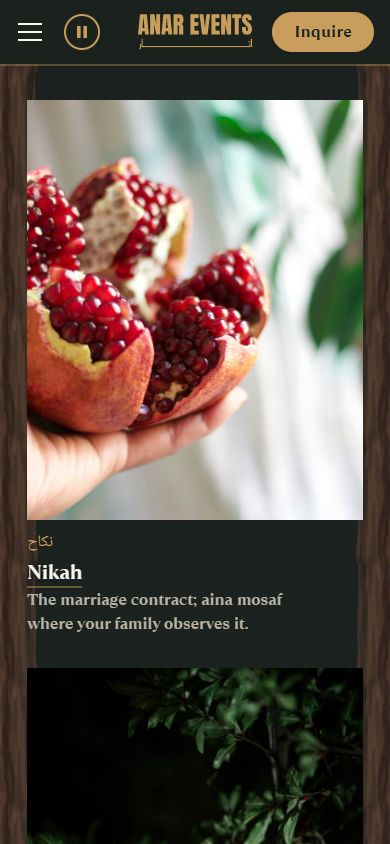
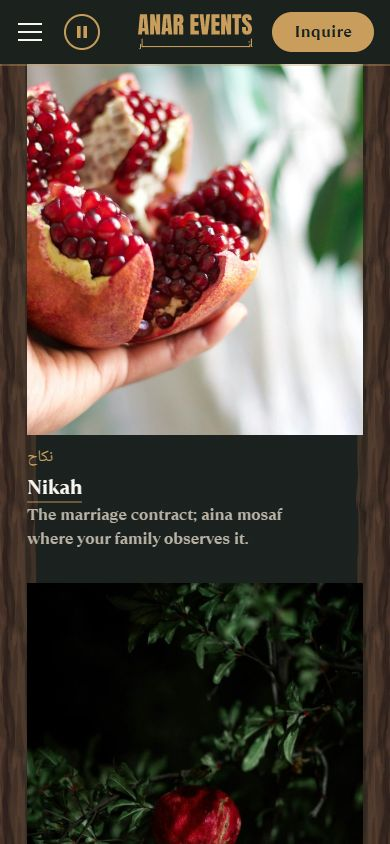
Canopy fix pass 8: static reduced motion, focus handling, phone spacing, halo, copy

diff --git a/weddings.html b/weddings.html
@@ -111,16 +111,16 @@
             <h2 id="t-sofreh">Sofreh Aghd</h2>
             <p class="fa fa--big" lang="fa" dir="rtl">سفرهٔ عقد</p>
           </div>
-          <!-- each ceremony leads with two sentences of coordination work (conditional: the rituals the couple chooses,
-               the participants the couple names); the ritual sequences and cue lists sit in a native <details> -->
+          <!-- each ceremony opens with two short sentences of coordination work (round 8: what we do, no ritual
+               inventory); the sequences, participants and cue lists sit in the native <details> under them -->
           <div class="stagger">
-            <p>The Persian marriage ceremony, at the sofreh. For the rituals you choose, we confirm the order and participants with you and your officiant: the aghed's three-time ask and the bride's baleh, the kaleh ghand rubbed over the couple during the reading, then the honey shared after it, each cued on the day with the participants you name.</p>
-            <p>We brief your sofreh designer and check the spread against the sofreh key (a one-page guide naming each item on the spread, in the languages listed in your proposal) before the elders are seated, and we cue the aghed, the family and the photographer at each moment.</p>
+            <p>For the Persian ceremony at the sofreh, we confirm the order and participants of the rituals you choose with you and your officiant, and cue each moment on the day.</p>
+            <p>We brief your sofreh designer and check the spread against the sofreh key before the elders are seated.</p>
             <details class="option__more tradition__more">
               <summary>Details we confirm with your family</summary>
               <p>The spread at the head of the room: mirror, candlesticks, honey, bread, coins, the pomegranate. The kaleh ghand: the sugar cones rubbed together over the cloth held above the couple's heads as the vows are read, by the participants the couple names (many families choose happily married women).</p>
               <p>The baleh: the aghed asks three times and the bride's answer comes after the third (the playful silence the first two times, timed with the aghed, the family and the photographer); the honey is shared from the fingertip straight after. Who holds the cloth, who rubs the cones and who speaks for the family: you name them, and we cue them.</p>
-              <p>The sofreh key is coordinated with your printer and set out for the guests, so the other family learns each item at a glance. If your family holds a bale-boroon or namzadi before the aghd, it goes in the programme and the elders are seated for it.</p>
+              <p>The sofreh key (a one-page guide naming each item on the spread, in the languages listed in your proposal) is coordinated with your printer and set out for the guests, so the other family learns each item at a glance. If your family holds a bale-boroon or namzadi before the aghd, it goes in the programme and the elders are seated for it.</p>
             </details>
           </div>
         </div>
@@ -143,8 +143,8 @@
             <p class="fa fa--big" lang="fa" dir="rtl">نکاح</p>
           </div>
           <div class="stagger">
-            <p>The Islamic marriage contract, read before witnesses and both families. For Pakistani families: the nikah, the rukhsati and the walima, each in its own time. For the rituals you choose, we confirm the order and participants with you and your officiant: the mehndi the night before and the rukhsati after the nikah or the reception, if your family keeps them.</p>
-            <p>We cue the officiant and the family, and keep the room quiet and steady. A one-line programme, coordinated with your printer, explains the ritual so every guest can follow.</p>
+            <p>For the Islamic marriage contract, read before witnesses and both families, we confirm the order and participants with you and your officiant.</p>
+            <p>We cue the officiant and the family, and a one-line programme, coordinated with your printer, lets every guest follow.</p>
           </div>
           <!-- Afghan weddings (#afghan, in the "Find your ceremony" row): how the family names its ceremonies, languages and
                participants; before the nikah details, so Afghan families meet their entry point first -->
@@ -154,6 +154,7 @@
           </div>
           <details class="option__more tradition__more reveal">
             <summary>Details we confirm with your family</summary>
+            <p>For Pakistani families: the nikah, the rukhsati and the walima, each in its own time. For the rituals you choose: the mehndi the night before and the rukhsati after the nikah or the reception, if your family keeps them. The room stays quiet and steady for the reading.</p>
             <p>If your family observes the aina mosaf (<span class="fa" lang="fa" dir="rtl">آینهمصحف</span>), as many Afghan families do, it has its own moment, at the nikah or at the reception under the shawl, as your family keeps it: the couple's first look in the mirror, the Quran open between them, the elders close. We cue the shawl, the mirror and the reading with your family, and nobody is hurried.</p>
             <p>The witnesses, the wali, and who signs where: confirmed with your officiant before the day, so the reading is not interrupted. The mahr as agreed by the couple and confirmed with their officiant.</p>
             <p>The family's part, who speaks, who sits where and who is cued for the send-off: as your family keeps it, named with you.</p>
@@ -178,13 +179,13 @@
             <p class="fa fa--big" lang="fa" dir="rtl">حنابندان · مهندی</p>
           </div>
           <div class="stagger">
-            <p>The henna night and the sangeet. For the rituals you choose, we confirm the order of the evening and the participants with you, then run it with the venue, the musicians and the henna artist.</p>
-            <p>The elders are seated before the first song and the bride's henna is dry before she is called; the nights before, if your family holds them, go in the same plan with their own timeline and staffing.</p>
+            <p>For the henna night and the sangeet, we confirm the order of the evening and the participants with you, then run it with the venue, the musicians and the henna artist.</p>
+            <p>The elders are seated before the first song, and the bride's henna is dry before she is called.</p>
             <details class="option__more tradition__more">
               <summary>Details we confirm with your family</summary>
               <p>The order of the evening as your family keeps it: the henna, the elders' blessing, the entrances, the dances each family has rehearsed, the hour the elders leave.</p>
               <p>The henna gathering: hana-bandan for Persian families, khina for Afghan families, mehndi for South Asian families. Henna on the bride's hands, with the elders' blessing, by the participants the couple names.</p>
-              <p>The sangeet: both families singing and dancing. In the nights before, if your family holds them: the mayun, dholki or jaggo, or the gaye holud for Bengali families.</p>
+              <p>The sangeet: both families singing and dancing. In the nights before, if your family holds them: the mayun, dholki or jaggo, or the gaye holud for Bengali families, each in the same plan with its own timeline and staffing.</p>
             </details>
           </div>
         </div>
@@ -207,10 +208,11 @@
             <h2 id="t-hindu">Haldi &amp; Pheras</h2>
           </div>
           <div class="stagger">
-            <p>We coordinate timing with your officiant and the religious venue, at the muhurat your family's priest sets, and call the day in the order of the agreed programme. For the rituals you choose, we confirm the order and participants with you and your pandit: who gives the bride away, who leads which round, who sits where for the pheras.</p>
-            <p>A one-line programme, coordinated with your printer, explains each ritual so every guest can follow, and the mandap stays quiet and on time.</p>
+            <p>We set the timing with your pandit and the venue, at the muhurat your family's priest sets, and call the day in the order of the agreed programme.</p>
+            <p>A one-line programme, coordinated with your printer, explains each ritual so every guest can follow.</p>
             <details class="option__more tradition__more">
               <summary>Details we confirm with your family</summary>
+              <p>For the rituals you choose, we confirm the order and participants with you and your pandit: who gives the bride away, who leads which round, who sits where for the pheras. The mandap stays quiet and on time.</p>
               <p>If your family observes the haldi, or the vidhi and pithi for Gujarati families, the family paints the couple with turmeric before the wedding; we schedule it with the family and the photographer, and keep the outfits for the wedding day clear of it.</p>
               <p>The day as many families call it, confirmed with you and written into the programme: the baraat (the groom's party arriving) and the milni, the kanya aagman (the bride's entrance, cued with her family), the jai mala or varmala (the garlands exchanged, with the family close), the kanyadaan (the giving away, by the participants the couple names; often the parents), then the pheras under the mandap with the pandit: the number of rounds, who leads which, the mangalsutra and the sindoor, the saptapadi's seven steps, as your family keeps them.</p>
               <p>Gujarati, Punjabi or South Indian: the sequence your family keeps, confirmed with your pandit.</p>
@@ -236,10 +238,11 @@
             <h2 id="t-sikh">Anand Karaj</h2>
           </div>
           <div class="stagger">
-            <p>We coordinate timing with the gurdwara and the granthi, and call the morning in the order of the agreed programme. For the rituals you choose, we confirm the order and participants with you and the granthi: who places the palla, who sits close for the laavan.</p>
-            <p>A one-line programme, coordinated with your printer, explains each ritual and what the gurdwara asks of guests (heads covered, shoes off), so every guest can follow; the hall stays quiet and on time.</p>
+            <p>We set the timing with the gurdwara and the granthi, and call the morning in the order of the agreed programme.</p>
+            <p>A one-line programme, coordinated with your printer, tells every guest what the gurdwara asks (heads covered, shoes off).</p>
             <details class="option__more tradition__more">
               <summary>Details we confirm with your family</summary>
+              <p>For the rituals you choose, we confirm the order and participants with you and the granthi: who places the palla, who sits close for the laavan. The hall stays quiet and on time, and the programme explains each ritual so every guest can follow.</p>
               <p>The Sikh ceremony before the Guru Granth Sahib: the baraat (the groom's party arriving) and the milni, the families seated, the palla placed in the bride's hand by the participant the couple names (often her father), the four laavan as the couple circle the Guru Granth Sahib, the parents and the elders seated close.</p>
               <p>Your ceremony, in the sequence agreed with your family and the granthi: the Ardas and the Karah Parshad at its close, then the langar, with the gurdwara.</p>
             </details>
@@ -264,10 +267,11 @@
             <p class="fa fa--big" lang="fa" dir="rtl">جشن عروسی</p>
           </div>
           <div class="stagger">
-            <p>The timeline called with the venue and every vendor: blessings, entrances and dancing in the order agreed with your family, on one night or two as your family keeps it. For the rituals you choose, we confirm the order and participants with you: who speaks, who is cued for the send-off.</p>
-            <p>Welcome sign, seating chart and table numbers in the languages listed in your proposal, coordinated with your printer and the venue; the rukhsati, vidaai or doli, as your family calls the send-off, cued for the elders, and a thank-you card follows.</p>
+            <p>We call the timeline with the venue and every vendor: blessings, entrances and dancing in the order agreed with your family, on one night or two.</p>
+            <p>The send-off, the rukhsati, vidaai or doli as your family calls it, is cued for the elders.</p>
             <details class="option__more tradition__more">
               <summary>Details we confirm with your family</summary>
+              <p>For the rituals you choose, we confirm the order and participants with you: who speaks, who is cued for the send-off. Welcome sign, seating chart and table numbers in the languages listed in your proposal, coordinated with your printer and the venue, and a thank-you card follows.</p>
               <p>The walima, the groom's family's celebration after the nikah, and the reception: which family hosts which night, who speaks and in which order, the first dance or none, and the hour the elders leave. We run each your way.</p>
             </details>
           </div>

diff --git a/how-we-work.html b/how-we-work.html
@@ -125,15 +125,19 @@
         </li>
         <!-- the third way, its own card (round 5): selected-event planning (renamed from partial planning, round 7: one
              or two events of a multi-day celebration, e.g. when a venue's own coordinator runs the main day), quoted like
-             the two above; when it begins and what it includes defined like the other two (round 6) -->
+             the two above; when it begins and what it includes defined like the other two (round 6). Round 8: the scope
+             says plainly that it is planning, not only coordination: the budget for those events, venue and vendor
+             sourcing and booking support, then running the days -->
         <li class="option--wide">
           <h3>Selected-event planning</h3>
           <p class="option__when">Begins once your proposal is signed · one or two events of a multi-day celebration, quoted the same way</p>
-          <p class="option__scope">The sofreh, the nikah, the mehndi and the other days still need calling when a venue's own coordinator runs the main day. Already have a venue coordinator? We agree who runs what, in writing. Quoted to the events, days and staffing it covers.</p>
+          <p class="option__scope">We plan the one or two events you choose, such as the sofreh, the nikah or the mehndi: the budget for those events, venue and vendor sourcing and booking support, then we run those days. Already have a venue coordinator for the main day? We agree who runs what, in writing. Quoted to the events, days and staffing it covers.</p>
           <details class="option__more">
             <summary>What is included</summary>
             <ul role="list">
               <li>The events we take on, named up front: which days, which ceremonies, which hours and the staffing for each.</li>
+              <li>The budget for those events, tracked line by line once planning begins.</li>
+              <li>Venue and vendor sourcing for those events, booking support, and contract review covering planning requirements and vendor logistics.</li>
               <li>A written split of responsibilities with the venue's coordinator: who runs the venue's day, who runs the family ceremonies and each additional event.</li>
               <li>One timeline for the events we run, called with the venue and every vendor, joined to the venue coordinator's own; the rituals in order, the officiant and the family cued, the sofreh key or the programme checked against your family's wishes.</li>
               <li>Elders' seats held at every event we run, and a short written summary after each meeting.</li>
@@ -164,7 +168,7 @@
           <span class="step__n">02 · Consultation</span>
           <h3>First, we hear your priorities.</h3>
           <p class="fa" lang="fa" dir="rtl">مشاوره</p>
-          <p>We meet your family, greet the elders first, and listen. We ask how your family observes each tradition. Parents and elders included at the level your family agrees together.</p>
+          <p>We meet your family, greet the elders first, and listen. We ask how your family observes each tradition. Parents and elders included at the level your family agrees together. The couple approves ceremony and personal choices; whoever is paying approves spending.</p>
           <ul class="step__points" role="list">
             <li><strong>Guest needs:</strong> seating, mobility and quiet-space needs for the elders and guests, planned from this meeting on.</li>
             <li><strong>Parent involvement:</strong> your family tells us who joins each meeting and how much the parents decide, and we keep to it.</li>
@@ -177,7 +181,7 @@
           <p class="fa" lang="fa" dir="rtl">پیشنهاد</p>
           <p>A short proposal with the rituals in order, the days, the price and exactly what is included: the events covered, the staffing, the hours and the fees, before anything is booked.</p>
           <ul class="step__points" role="list">
-            <li><strong>Decision approvals:</strong> together, we agree who approves decisions, who approves spending, and which updates each family receives.</li>
+            <li><strong>Decision approvals:</strong> written down as agreed at the consultation: the couple approves ceremony and personal choices, whoever is paying approves spending, and together we agree which updates each family receives.</li>
             <li><strong>Parents' pages</strong> in the language agreed in your proposal; translation and spoken support confirmed before booking.</li>
             <li><strong>Date reservation:</strong> a signed proposal and the deposit hold your dates; an inquiry or consultation does not.</li>
           </ul>
@@ -244,7 +248,7 @@
         </details>
         <details>
           <summary>Do you plan the whole wedding, or only run the day?</summary>
-          <p class="faq__a">Both, and the ground between. Full planning begins once your proposal is signed and runs to the thank-you, with the wedding events agreed in your proposal run by your planner; the first conversation is free. Wedding-day coordination begins 6–8 weeks before the first event: you have planned already, we run the days you have planned. Selected-event planning begins once your proposal is signed and covers one or two events of a multi-day celebration, with the split of responsibilities agreed in writing when a venue's own coordinator runs the main day. We say which fits on the first call, with the price and what is included.</p>
+          <p class="faq__a">Both, and the ground between. Full planning begins once your proposal is signed and runs to the thank-you, with the wedding events agreed in your proposal run by your planner; the first conversation is free. Wedding-day coordination begins 6–8 weeks before the first event: you have planned already, we run the days you have planned. Selected-event planning begins once your proposal is signed and plans one or two events of a multi-day celebration (their budget, venue and vendor sourcing and booking support), then runs those days, with the split of responsibilities agreed in writing when a venue's own coordinator runs the main day. We say which fits on the first call, with the price and what is included.</p>
         </details>
         <details>
           <summary>How early should we write?</summary>

diff --git a/assets/css/canopy.css b/assets/css/canopy.css
@@ -85,9 +85,12 @@ html.canopy-motion .hero__bg{position:fixed;inset:0;height:auto}
 .canopy .hero__mark{width:min(51vw,760px);top:clamp(100px,calc(var(--tree-top) + 278 * var(--s) - var(--hero-content)),28%)}
 .canopy .hero__fade,.canopy .hero__rise,.canopy .hero__text{position:relative}
 /* the halo carries the contrast behind the logo and the descriptor (the full-frame tint is lighter, round 3): .85 at
-   the centre holding .5 to 55% and 230% tall (round 5), so the thin Persian kashida under ANAR EVENTS reads over the
-   loop's pale roses and the small parchment lines never compete with the bright linens */
-.canopy .hero__halo{width:140%;height:230%;background:radial-gradient(closest-side,rgba(27,34,30,.85),rgba(27,34,30,.5) 55%,transparent 80%)}
+   the centre, so the thin Persian kashida under ANAR EVENTS reads over the loop's pale roses and the small parchment
+   lines never compete with the bright linens. Round 8: the outer reach pulled in (230% → 180% tall, gone at 78% of
+   the radius, not 80%), so the loop's midtones read above the logo and below the tag pair; the stops are re-solved so
+   the alpha behind the text is unchanged (measured at 1440: tag bottom .57 → .57, the descriptor's ends .10 → .10;
+   the same proportions at 390). The dark field now ends ~270px from the centre vertically (was ~355px) */
+.canopy .hero__halo{width:145%;height:180%;background:radial-gradient(closest-side,rgba(27,34,30,.85),rgba(27,34,30,.55) 60%,transparent 78%)}
 /* the top scrim: 180px of cypress (.55 → 0) over the tint, so the bar's links, the number and the envelope sit on
    night at scroll 0, not on the loop's white drapery; the phone tint (site.css) keeps its bottom ramp under it */
 .canopy .hero__tint{background:linear-gradient(rgba(27,34,30,.55) 0,rgba(27,34,30,0) 180px),linear-gradient(rgba(27,34,30,.34),rgba(27,34,30,.66))}
@@ -294,6 +297,9 @@ html.canopy-motion.logo-docked .page-index .site-header .nav-home{opacity:1;visi
 /* the photo is out of the tab order (one link per destination: the title is the accessible one); keyboard focus on
    the title lifts the photo the same way */
 @supports selector(:has(a)){.cel figure:has(h3 a:focus-visible) .cel__slot img{transform:scale(1.03)}}
+/* Pause and reduced motion (round 8): the photos stay still on hover and focus (no scale at all, not an instant one) */
+.reduced .cel__slot img{transform:none!important;transition:none}
+@media (prefers-reduced-motion:reduce){.cel__slot img{transform:none!important;transition:none}}
 /* each caption: the Persian accent, the linked title (its gold underline is the one line; no rule above it, round 5),
    the description reserving two lines on phones and three side by side (below), so the three captions end level */
 .cel h3{position:relative;font-size:clamp(20px,1.7vw,24px);margin-top:var(--s1)}
@@ -340,8 +346,15 @@ html.canopy-motion.logo-docked .page-index .site-header .nav-home{opacity:1;visi
 @media (max-width:768px){
   .screen__col,.screen--statement .screen__col,.screen--celebrations .screen__col,.screen--inquire .screen__col{max-width:none}
   /* the whole canopy (352px at 390) sits inside screen 1 on phones, so the statement is a compact block after it, not a
-     viewport-high column; the promises end ≤ 80px above "The celebrations" (40px here + 32–40px below, no void) */
-  .screen--statement .screen__col{min-height:0;padding-block:clamp(40px,6vh,64px) 40px}
+     viewport-high column; the promises end ≤ 80px above "The celebrations" (40px here + 32–40px below, no void).
+     Round 8: the statement starts at the canopy's own clearance, not at the hero's bottom: art row 1150, where the
+     stack is fully opaque for the last time (Pillow, the four layers composited with the 1150–1200 mask: the last
+     pixel above alpha .16 across the text column, x 206–1330, is row 1148, the hanging fruit), so the section's
+     top is --tree-top + 1150 rows (a negative margin into the hero's solid-night bottom ramp; positive where the
+     canopy ends below the hero, e.g. 768×1024) and the eyebrow sits 28px under it (≥ 16px clearance with the sway,
+     ±1px at the fruit, and the bounce, which lifts). 390×844: fruit 713, eyebrow 741 (was 922, a 209px corridor) */
+  .screen--statement{padding-top:0;margin-top:calc(var(--tree-top) + 1150 * var(--s) - var(--hero-h))}
+  .screen--statement .screen__col{min-height:0;padding-block:28px 40px}
   .screen--celebrations{padding-top:32px}
   .cel{grid-template-columns:1fr;gap:var(--s3)}
   .cel figure{max-width:420px;margin-inline:auto;width:100%}
@@ -350,8 +363,9 @@ html.canopy-motion.logo-docked .page-index .site-header .nav-home{opacity:1;visi
   .promises{font-size:18px}
   /* the "How we work +" tab (36px wide, mid-height, right edge; hidden while the hero or the photo row is in view and
      while scrolling, site.js) must never sit over text or a slot: the blocks that can meet it keep 44px of right
-     clearance, i.e. the 40px gutter topped up by 4px (the centred promises shift 2px, invisible). Not .cel figure
-     (round 7): site.js hides the tab while the photo row is in view on phones, so the extra right pad only pushed the
-     slots off-centre (27px left, 44px right at 390) */
-  .promises,.screen--inquire .form{padding-right:max(0px,44px - var(--gutter))}
+     clearance, i.e. the gutter topped up (the centred promises shift a few px, invisible). Not .cel figure (round 7)
+     and not the inquiry form (round 8): site.js hides the tab while the photo row, #inquire or the footer is in view,
+     so the extra right pad only pushed the slots, the fields and the button off the heading's axis; the form keeps
+     equal gutters (27px / 27px at 390) */
+  .promises{padding-right:max(0px,44px - var(--gutter))}
 }

diff --git a/assets/js/site.js b/assets/js/site.js
@@ -373,10 +373,18 @@
        destination now on screen (#inquire's call line, the footer's first link, the phone photo row's first title),
        else main (tabindex -1). hideFor / hideForPhone are the observer's own lists (declared below, assigned before
        any scroll or observer callback runs) */
+    /* round 8: a candidate control must itself be on screen (a box, below the fixed bar, above the viewport's
+       bottom), not only its section: a partly visible footer or #inquire can have its first control off screen, and
+       the focus move uses preventScroll, so an off-screen target would leave the focus invisible */
+    var controlOnScreen = function (el) {
+      var r = el.getBoundingClientRect();
+      var top = header ? header.getBoundingClientRect().bottom : 0;
+      return r.width > 0 && r.height > 0 && r.top >= top && r.bottom <= vh();
+    };
     var moveFocusOff = function () {
       var dests = (hideFor || []).concat(isDesktop() ? [] : (hideForPhone || [])).filter(inView);
       var next = null;
-      dests.some(function (d) { var f = tabbable(d); if (f.length) { next = f[0]; return true; } return false; });
+      dests.some(function (d) { var f = tabbable(d).filter(controlOnScreen); if (f.length) { next = f[0]; return true; } return false; });
       if (!next) { next = mainEl; }
       if (next && next.focus) { next.focus({ preventScroll: true }); }
     };
@@ -647,8 +655,18 @@
         refreshAfterRelayout();
       }).observe(form);
     }
+    /* round 8: the response is always announced (the live region), but focus moves to it ONLY while it is still on the
+       submit button, so a delayed reply never pulls a visitor out of a field they are editing or a link they moved to.
+       The button is disabled while the request runs, and a browser applying the focus fixup rule then drops the focus
+       to <body>: a submit started from the button with the focus now on nothing counts as still on the button */
+    var focusStatusIfOnSubmit = function (fromSubmit) {
+      if (!status) { return; }
+      var a = document.activeElement;
+      if ((submitBtn && a === submitBtn) || (fromSubmit && (!a || a === body || a === html))) { status.focus(); }
+    };
     form.addEventListener('submit', function (e) {
       e.preventDefault();
+      var fromSubmit = !!submitBtn && document.activeElement === submitBtn;
       if (!form.checkValidity()) {
         form.reportValidity();
         /* after reportValidity(): the native focus move is not guaranteed on iOS Safari once the custom error lines
@@ -659,7 +677,7 @@
       }
       if (/FORMSPREE_ID/.test(form.action)) {
         say('error', 'Online inquiries are not connected yet. Your entries are still here. Please', true);
-        if (status) { status.focus(); }
+        focusStatusIfOnSubmit(fromSubmit);
         return;
       }
       if (submitBtn && submitBtn.disabled) { return; }
@@ -684,7 +702,7 @@
           say('ok', 'Thank you. Your message is on its way; we reply within one business day.');
           /* reset only what was sent: an edit made while the request was pending stays in place */
           if (sent !== null && snapshot() === sent) { form.reset(); }
-          if (status) { status.focus(); }
+          focusStatusIfOnSubmit(fromSubmit);
         })
         .catch(function () {
           if (timedOut) {
@@ -692,7 +710,7 @@
           } else {
             say('error', 'Your message did not send. Nothing you typed was lost: please try again, or', true);
           }
-          if (status) { status.focus(); }
+          focusStatusIfOnSubmit(fromSubmit);
         });
       var done = function () { clearTimeout(timer); restoreSubmit(); };
       if (request.finally) { request.finally(done); } else { request.then(done, done); }
@@ -899,7 +917,10 @@
           Anything already inside the viewport is shown at once
           (no flash: .anim-ready and these sets land in one task).
        ------------------------------------------------------- */
-    var limit = vh() * 0.88;
+    /* "inside the viewport" at build time means the whole viewport (round 8: at 88 %, the trigger start, the home's
+       phone statement, now 28px under the canopy at y ≈ 744 of 844, stayed hidden on the first screen and left the
+       corridor under the canopy empty until the first scroll); the tweens below still start at 88 % */
+    var limit = vh();
     var seen = function (el) { return el.getBoundingClientRect().top < limit; };
     revealTweens = [];
     var reveal = function (el, targets, vars) {

diff --git a/assets/css/site.css b/assets/css/site.css
@@ -497,11 +497,14 @@ body.panel-open{overflow:hidden}
 /* a kicker over a ceremony title ("Hindu ceremonies" / "Sikh ceremony"), 8px above it; the title's right cell then
    carries the script accent like the other sections */
 .tradition__text > .eyebrow{margin-bottom:var(--s1)}
-.tradition__title{display:grid;gap:var(--s1);margin-bottom:var(--s3)}
-@media (min-width:600px){.tradition__title{grid-template-columns:1fr 1fr;align-items:baseline}.tradition__title .fa,.tradition__title .eyebrow{text-align:right;color:var(--gold)}
-  /* a title with no accent cell (Haldi & Pheras, Anand Karaj: English only, round 6) takes both columns, so it does not
-     wrap in a half-width cell beside an empty one */
-  .tradition__title > h2:only-child{grid-column:1 / -1}}
+/* round 8: a wrapping flex row, not two equal grid halves. The h2 takes the whole text-column width it needs and the
+   Persian accent sits at the right end of the same baseline when both fit; when they do not, the accent drops to
+   its own line beneath the heading (still right-aligned), so a ceremony title never stacks in a half-width cell.
+   A title with no accent (Haldi & Pheras, Anand Karaj) is simply the full-width h2 */
+.tradition__title{display:flex;flex-wrap:wrap;align-items:baseline;gap:var(--s1) var(--s3);margin-bottom:var(--s3)}
+.tradition__title > h2{flex:0 1 auto;min-width:0}
+.tradition__title .fa{margin-left:auto;text-align:right}
+@media (min-width:600px){.tradition__title .fa,.tradition__title .eyebrow{color:var(--gold)}}
 .tradition__text p+p{margin-top:var(--s2)}
 .tradition__media{margin:0}
 .tradition__media .slot{overflow:hidden;background:var(--deep);max-width:480px;margin-inline:auto;aspect-ratio:4/5}
@@ -578,6 +581,8 @@ body.panel-open{overflow:hidden}
 .reduced .track-line path,html:not(.anim-ready) .track-line path{stroke-dashoffset:0!important}
 .reduced .track-dot,html:not(.anim-ready) .track-dot{background:var(--gold)}
 .reduced *, .reduced *::before, .reduced *::after{transition-duration:.01ms!important;animation-duration:.01ms!important}
+/* Pause (round 8): the buttons stay in place on hover (no lift at all, not an instant one); the colour change stays */
+.reduced .btn:hover,.reduced .btn:focus-visible{transform:none}
 
 /* ---------- Reduced motion: everything visible, nothing scrubs ---------- */
 @media (prefers-reduced-motion:reduce){
@@ -587,4 +592,6 @@ body.panel-open{overflow:hidden}
   .anim-ready .reveal-img{transform:none}
   .track-line path{stroke-dashoffset:0!important}
   .track-dot{background:var(--gold)}
+  /* round 8: no spatial hover effect either (the button lift; the canopy home's photo scale is in canopy.css) */
+  .btn:hover,.btn:focus-visible{transform:none}
 }

diff --git a/assets/js/canopy.js b/assets/js/canopy.js
@@ -321,6 +321,11 @@
       var setMorphY = gsap.quickSetter(morph, 'y', 'px');
       var setMorphSX = gsap.quickSetter(morph, 'scaleX');
       var setMorphSY = gsap.quickSetter(morph, 'scaleY');
+      /* round 8: the last morphing / docked states written to the root, so the classes change only on a state change
+         (the root's MutationObserver, sync() below, would otherwise run on every scroll update). Read from the root
+         itself on each build, so a kill() (which removes both) and a rebuild start from the truth */
+      var wasMorphing = html.classList.contains('logo-morphing');
+      var wasDocked = html.classList.contains('logo-docked');
       var applyMorph = function (self) {
         if (!A || !B) { return; }
         var p = self.progress, q = morphEase(p), k = 1 + (B.w / A.w - 1) * q;
@@ -328,8 +333,9 @@
         setMorphY(A.top + (B.top - A.top) * q);
         setMorphSX(k);
         setMorphSY(k);
-        html.classList.toggle('logo-morphing', p > 0 && p < 1);
-        html.classList.toggle('logo-docked', p >= 1);
+        var morphing = p > 0 && p < 1, docked = p >= 1;
+        if (morphing !== wasMorphing) { wasMorphing = morphing; html.classList.toggle('logo-morphing', morphing); }
+        if (docked !== wasDocked) { wasDocked = docked; html.classList.toggle('logo-docked', docked); }
       };
       ScrollTrigger.create({
         trigger: hero, start: 'top top', end: function () { return '+=' + Math.round(hero.offsetHeight * MORPH_END); },

diff --git a/docs/BUILD-NOTES.md b/docs/BUILD-NOTES.md
@@ -284,3 +284,15 @@ Applied from `docs/council/canopy-fix7-brief.md` (round 7: Argon 9.5/9/9.6, Astr
 - **Copy (planners).** weddings.html: lede ends "Elders seated first, at every ceremony, as your family wishes."; Nikah paragraph adds "For Pakistani families: the nikah, the rukhsati and the walima, each in its own time."; Haldi details name "the vidhi and pithi for Gujarati families" and the day adds "the jai mala or varmala (the garlands exchanged, with the family close)"; Anand Karaj details: "the Ardas and the Karah Parshad at its close, then the langar, with the gurdwara." how-we-work.html: step 02 (and the panel's Consultation line on all four pages, the FAQ answer and About's "Parents and elders" item) "Parents and elders included at the level your family agrees together."; the duplicate in step 04 removed, "the couple tells us" → "your family tells us", and the FAQ's "The couple sets the level of parent involvement." removed so nothing contradicts it; "Partial planning" renamed "Selected-event planning" (card title, FAQ scope answer, cost answer; same scope text); a new FAQ "Our ceremony is at a gurdwara, mandir or masjid. Who coordinates it?" (we do, with the venue's own staff: arrival times, what the house asks of guests, where the photographer may stand, when the hall must be clear, and the move to a second venue on the same timeline), heading "Eight answers". index.html `.form__note`: "We reply within one business day, by email, or by phone if you prefer."
 - **Not taken (outside the brief).** Argon brand's 160–260px statement padding (owner decision: 40–72px), removing the screen-3 leaf and the 0 input radius; Astra's continuous trunk painting, equal left/right phone form padding, ceremony-opening rewrites and the cold-load CLS calibration; Argon dev's reduced-motion preload of L0 / L1.
 - **Verified.** `node --check assets/js/site.js` and `assets/js/canopy.js`; `shots.py`: 40 shots, 0 errors (run after the last edit); index-desktop-2 / -3, index-phone-2 and weddings-desktop-3 read; a Playwright pass (msedge, 1440 DPR 2 and 390) measured the caption grid, the header alpha (.984 computed), the tab order (`.hww-tab` is the header's next sibling), the #inquire landing, the empty submit, the bounce and Pause / Play, with no console errors.
+
+## Canopy round 8 fixes (council review of the canopy branch, 3 Nov 2026)
+
+Applied from `docs/council/canopy-fix8-brief.md` (round 8: Astra 8/8/8; Fable + Argon unavailable). Owner decisions kept: the bounce (Astra brand asked to remove it; kept by the owner's choice), the statement padding (40–72px on desktop), the layered canopy, the fruit, the tab, the logo morph. Not committed.
+
+- **Dev (blocking).** Reduced motion, both `.reduced` (Pause) and `prefers-reduced-motion: reduce`: `.btn:hover / :focus-visible{transform:none}` (site.css) and `.cel__slot img{transform:none!important}` (canopy.css): no button lift and no photo scale on hover or keyboard focus, static rather than instant (measured: computed transform `none` under both; `translateY(-2px)` / `scale(1.03)` with motion on). Inquiry form: the live status is always written, but focus moves to it only if it is still on the submit button (`focusStatusIfOnSubmit()`; the button is disabled while the request runs and Edge then drops focus to `<body>`, so a submit started from the button with focus on nothing counts as still there). Verified with a stalled fetch: focus left on the button → status focused; moved into the message field and typing → focus kept in the field, status announced; Enter in the email field (placeholder path) → focus kept in the field. `moveFocusOff()`: candidates are filtered by their own rect (`controlOnScreen()`: a box, below the fixed bar, above the viewport bottom), not only their section's (footer partly in view: 1440 lands on the form's button, 390 on the first on-screen field). canopy.js `applyMorph()`: the previous morphing / docked states are cached (seeded from the root on each build) and the root classes toggle only on a change (7 root class mutations over a 70-step scroll through the hero, each a real state change).
+- **Phones.** The inquiry form's extra right padding is gone (the tab already hides in #inquire): fields, button and note on equal 27px gutters at 390. The statement starts at the canopy's own clearance instead of the hero's bottom: `margin-top:calc(var(--tree-top) + 1150 * var(--s) - var(--hero-h))` (negative into the hero's solid-night bottom ramp; positive at 768×1024), column `padding-top:28px`. Measured with Pillow (the four layers composited with the 1150–1200 mask): the last canopy pixel above alpha .16 across the text column is row 1148 (the hanging fruit), y 713 at 390×844; the eyebrow now sits at y ≈ 744 (was 922), ~30px clear of the fruit with the sway (±1px there) and the lifting bounce. site.js block 9: the load-time "already in view" test is the whole viewport (it was the 88 % trigger start, which kept that eyebrow hidden at y 744 of 844 until the first scroll); the reveal tweens still start at 88 %. index-phone-0 now shows the eyebrow and "Reimagined Heritage" under the canopy.
+- **Hero halo.** `.canopy .hero__halo` 145% × 180% (was 140% × 230%), `.85 → .55 at 60% → transparent 78%` (was .5 at 55%, 0 at 80%): the dark field ends ~270px from the centre vertically (was ~355px), so the loop's midtones read above the logo and under the tag pair; the alpha behind the text is unchanged (tag bottom .57, the descriptor's ends .10 at 1440; the same proportions at 390).
+- **Weddings titles.** `.tradition__title` is a wrapping flex row (h2 `flex:0 1 auto`, the accent `margin-left:auto`, right-aligned): every ceremony h2 is one line at 1440 / 1024 / 390; Sofreh Aghd and Nikah keep the accent on the same baseline, Mehndi & Sangeet and Reception & Walima drop it beneath. The `h2:only-child` grid rule is gone (no longer needed).
+- **Copy (planner).** how-we-work.html Selected-event planning: "We plan the one or two events you choose, such as the sofreh, the nikah or the mehndi: the budget for those events, venue and vendor sourcing and booking support, then we run those days. Already have a venue coordinator for the main day? …"; the details add the events' budget and the venue / vendor sourcing, booking support and contract review lines; the FAQ scope answer says the same. Consultation: "The couple approves ceremony and personal choices; whoever is paying approves spending." (the parents' invitation kept); the Proposal's Decision approvals point repeats it as written down. weddings.html: each ceremony opens with two short coordination sentences; the rest (the Pakistani sequence, the sofreh key definition, the nights before, the pandit / granthi participants, the signage and send-off details) moved into the existing "Details we confirm with your family".
+- **Not taken (outside the brief).** Astra brand's shorter desktop canopy transition, lifting `.hero__tint`, removing the bounce (owner decision).
+- **Verified.** `node --check assets/js/site.js assets/js/canopy.js`; `shots.py`: 40 shots, 0 errors (run after the last edit); index-phone-0 / 1 / 2 / 3 / 4, index-desktop-0, weddings-desktop-1 and how-we-work-desktop-1 read; a Playwright pass (msedge) measured the reduced-motion transforms, the form focus cases, the morph mutations, the focus-move target and the title layout, with no page errors.

diff --git a/docs/council/canopy-fix8-brief.md b/docs/council/canopy-fix8-brief.md
@@ -1,0 +1,22 @@
+# Canopy fix pass 8 — from council round 8 (Astra 8/8/8; Fable + Argon unavailable: credits)
+
+Sources: docs/council/results/canopy/r8-astra-*.json. Owner decisions stand: KEEP the bounce (owner asked for it), the statement padding (40–72px), the layered canopy, fruit, tab, logo morph.
+
+## Dev (blocking)
+- Reduced motion (both `.reduced` and `prefers-reduced-motion: reduce`): no hover translation on buttons, no scale on celebration images/links — static, not just instant.
+- Inquiry response: keep the live status announcement, but move focus to the status only if focus is still on the submit button.
+- `moveFocusOff()`: filter candidate controls by their OWN viewport bounds, not only the section's.
+- `applyMorph()`: cache the previous morphing/docked state; toggle root classes only on change.
+
+## Brand / layout
+- Phones: remove the extra right padding on the inquiry form (tab already hides in #inquire); equal side gutters.
+- Phones: reduce the empty interval beneath the canopy so the next heading starts shortly after the hanging fruit clears (measure; keep ≥16px clearance).
+- `.hero__halo`: reduce the outer reach (keep logo/text contrast), so the video midtones read outside the clearance area.
+- weddings `.tradition__title`: headings take the full text-column width; the Persian accent drops beneath the heading when both don't fit on one line.
+
+## Copy (planner)
+- how-we-work "Selected-event planning": state plainly that it includes budgeting for those events, venue/vendor sourcing and booking support, plus running the days (if that is the intended scope — it is).
+- how-we-work Consultation: distinguish the couple's approval of ceremony and personal choices from the payer's approval of spending ("The couple approves ceremony and personal choices; whoever is paying approves spending.").
+- weddings ceremony openings: two short coordination sentences visible; the rest inside the existing details.
+
+Verify: `node --check assets/js/site.js assets/js/canopy.js`; `cd /c/dev/anar-site && PYTHONIOENCODING=utf-8 python docs/council/shots.py` → "40 shots; 0 errors"; Read index-phone-1/2/4, index-desktop-0, weddings-desktop-1. Append "Canopy round 8 fixes" to docs/BUILD-NOTES.md. Do not commit; no backup files.
